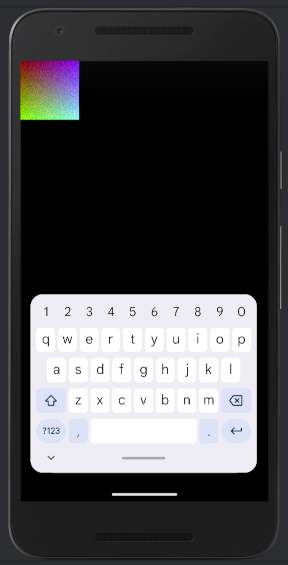
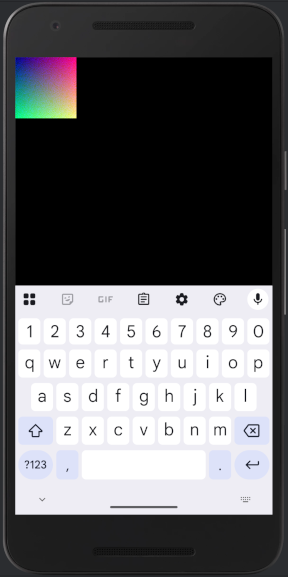
BGRA to RGBA on Android
Fix: Update project name from opengl to gles

diff --git a/GWindow.h b/GWindow.h
@@ -3965,10 +3965,17 @@ class Window_android : public WindowBase {
         uint min_h = MIN(h, height)  // draw min of window-h and image-h
         int stride = outbuf.stride;  // Actual buffer stride for memory alignment
 
-        for(int y = 0; y<min_h; ++y) {
+        for(uint y = 0; y<min_h; ++y) {
             uint32_t* src = buf + y * width;
             uint32_t* dst = ((uint32_t*)outbuf.bits) + y*stride;
-            memcpy(dst, src, min_w*4);
+            //memcpy(dst, src, min_w*4);  // RGBA
+
+            for(uint32_t x = 0; x < min_w; ++x) {  // BGRA -> RGBA
+                uint32_t c = src[x];
+                dst[x] = (c & 0xFF00FF00) |
+                        ((c & 0x00FF0000) >> 16) |
+                        ((c & 0x000000FF) << 16);
+            }
         }
         ANativeWindow_unlockAndPost(wnd);
         ANativeWindow_release(wnd);

diff --git a/Window/window_android.h b/Window/window_android.h
@@ -658,10 +658,17 @@ class Window_android : public WindowBase {
         uint min_h = MIN(h, height)  // draw min of window-h and image-h
         int stride = outbuf.stride;  // Actual buffer stride for memory alignment
 
-        for(int y = 0; y<min_h; ++y) {
+        for(uint y = 0; y<min_h; ++y) {
             uint32_t* src = buf + y * width;
             uint32_t* dst = ((uint32_t*)outbuf.bits) + y*stride;
-            memcpy(dst, src, min_w*4);
+            //memcpy(dst, src, min_w*4);  // RGBA
+
+            for(uint32_t x = 0; x < min_w; ++x) {  // BGRA -> RGBA
+                uint32_t c = src[x];
+                dst[x] = (c & 0xFF00FF00) |
+                        ((c & 0x00FF0000) >> 16) |
+                        ((c & 0x000000FF) << 16);
+            }
         }
         ANativeWindow_unlockAndPost(wnd);
         ANativeWindow_release(wnd);
